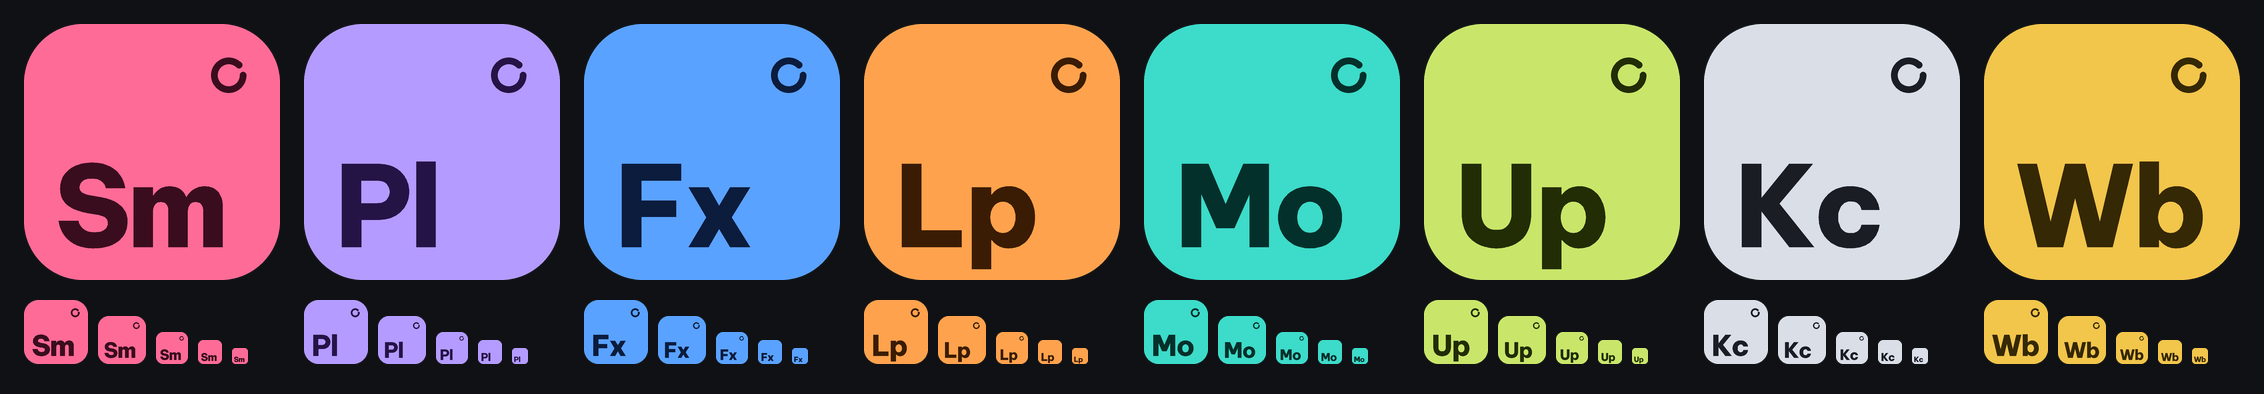
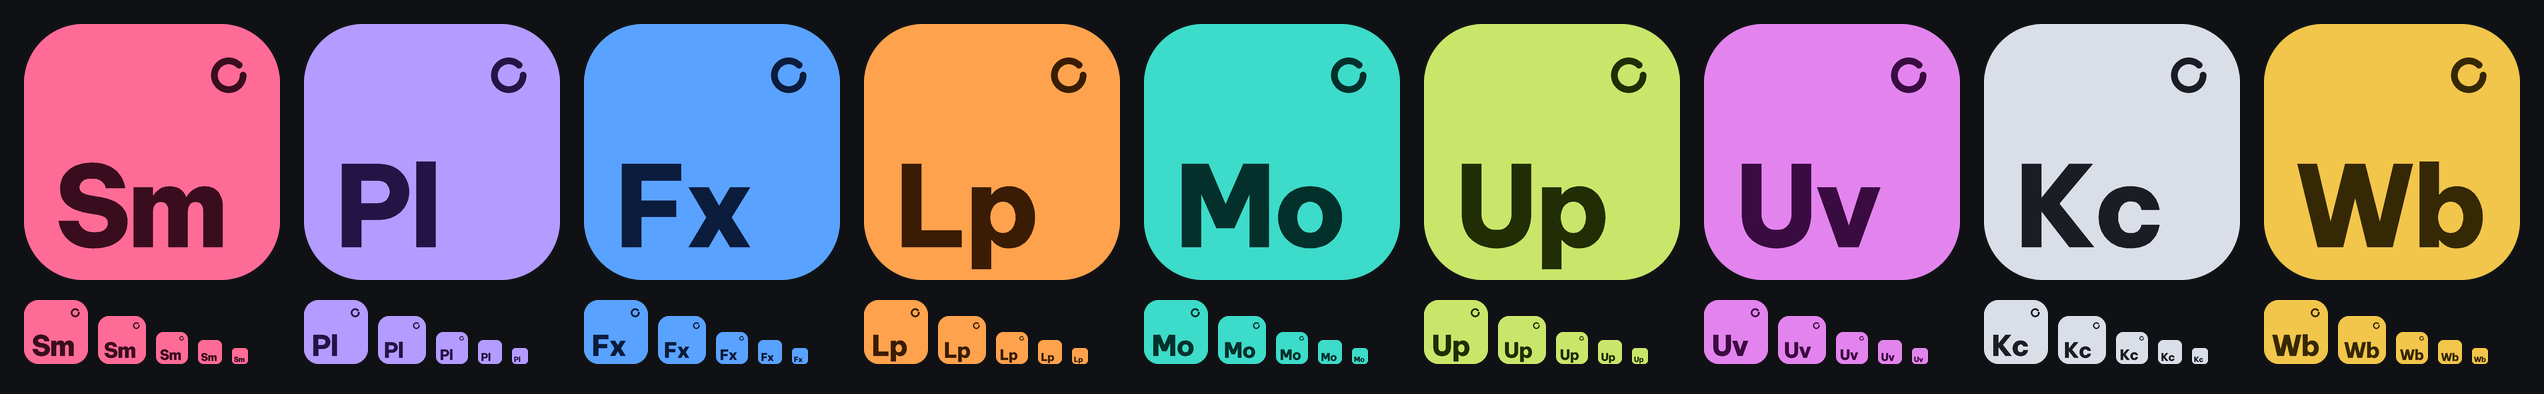
Brand kit: Bokin Upscale Video (Uv)
The owner asked for the two staff tools of Bokin App to get icons of the
family too: Upscale ảnh takes Bokin Upscaler's "Up" tile, Upscale video
gets its own, "Uv" on magenta (a hue no other app has). The other files
in out/ are as they were, byte for byte; the sheet shows nine apps.

Claude-Session: https://claude.ai/code/session_01AMjWQfZB43YSvoXUAaTfot

diff --git a/brand/make_icons.py b/brand/make_icons.py
@@ -29,6 +29,7 @@ APPS = {
     "loop": ("Lp", "Bokin Loop", "#FFA24D", "#3A1C04"),
     "motion-studio": ("Mo", "Bokin Motion Studio", "#3DDBC9", "#04302B"),
     "upscaler": ("Up", "Bokin Upscaler", "#C9E66A", "#222D06"),
+    "upscale-video": ("Uv", "Bokin Upscale Video", "#E384EE", "#3A0B40"),
     "key-center": ("Kc", "Bokin Key Center", "#D9DEE7", "#1A1D23"),
     "web": ("Wb", "Bokin Web", "#F2C54B", "#352805"),
 }

diff --git a/brand/README.md b/brand/README.md
@@ -13,7 +13,8 @@ hơn 32 điểm ảnh (thanh tác vụ, tab trình duyệt) bỏ vòng lặp cho
 | Bokin FX | Fx | `#5AA2FF` | `#0B1C3D` | `out/fx.*` |
 | Bokin Loop | Lp | `#FFA24D` | `#3A1C04` | `out/loop.*` |
 | Bokin Motion Studio | Mo | `#3DDBC9` | `#04302B` | `out/motion-studio.*` |
-| Bokin Upscaler | Up | `#C9E66A` | `#222D06` | `out/upscaler.*` |
+| Bokin Upscaler (Upscale ảnh) | Up | `#C9E66A` | `#222D06` | `out/upscaler.*` |
+| Bokin Upscale Video | Uv | `#E384EE` | `#3A0B40` | `out/upscale-video.*` |
 | Bokin Key Center (nội bộ) | Kc | `#D9DEE7` | `#1A1D23` | `out/key-center.*` |
 | Bokin Web (nội bộ) | Wb | `#F2C54B` | `#352805` | `out/web.*` |
 
